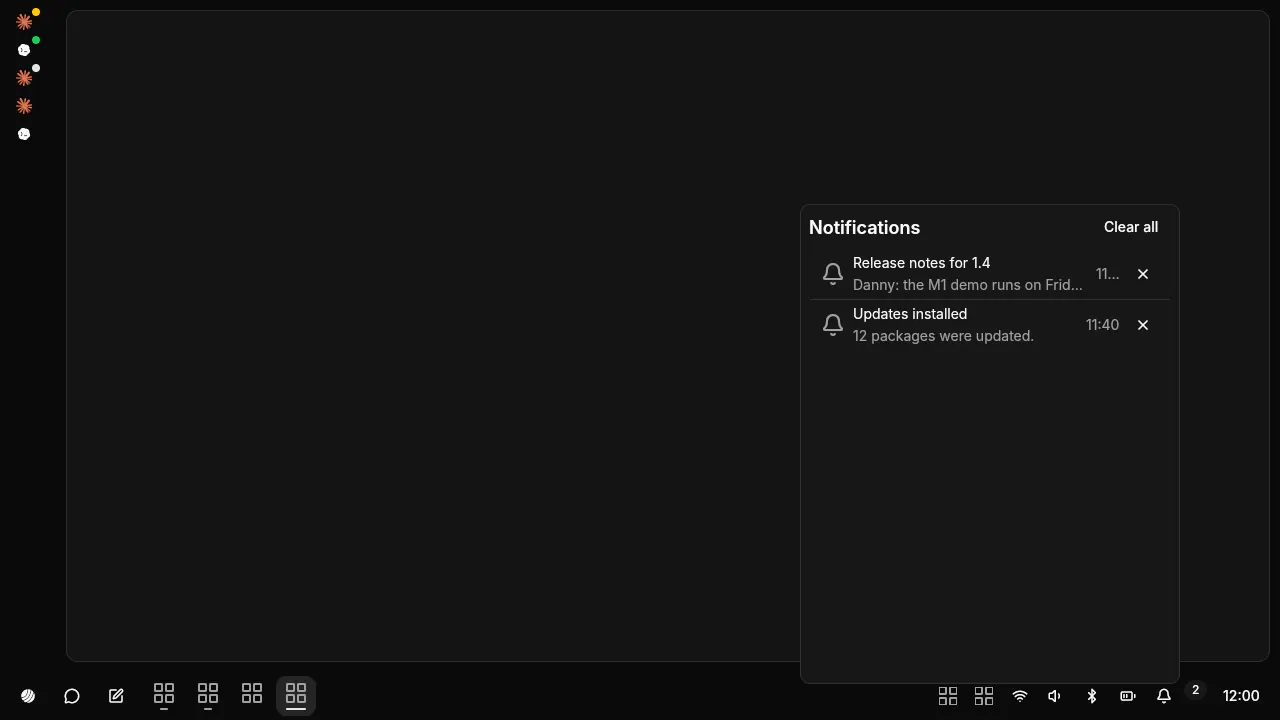
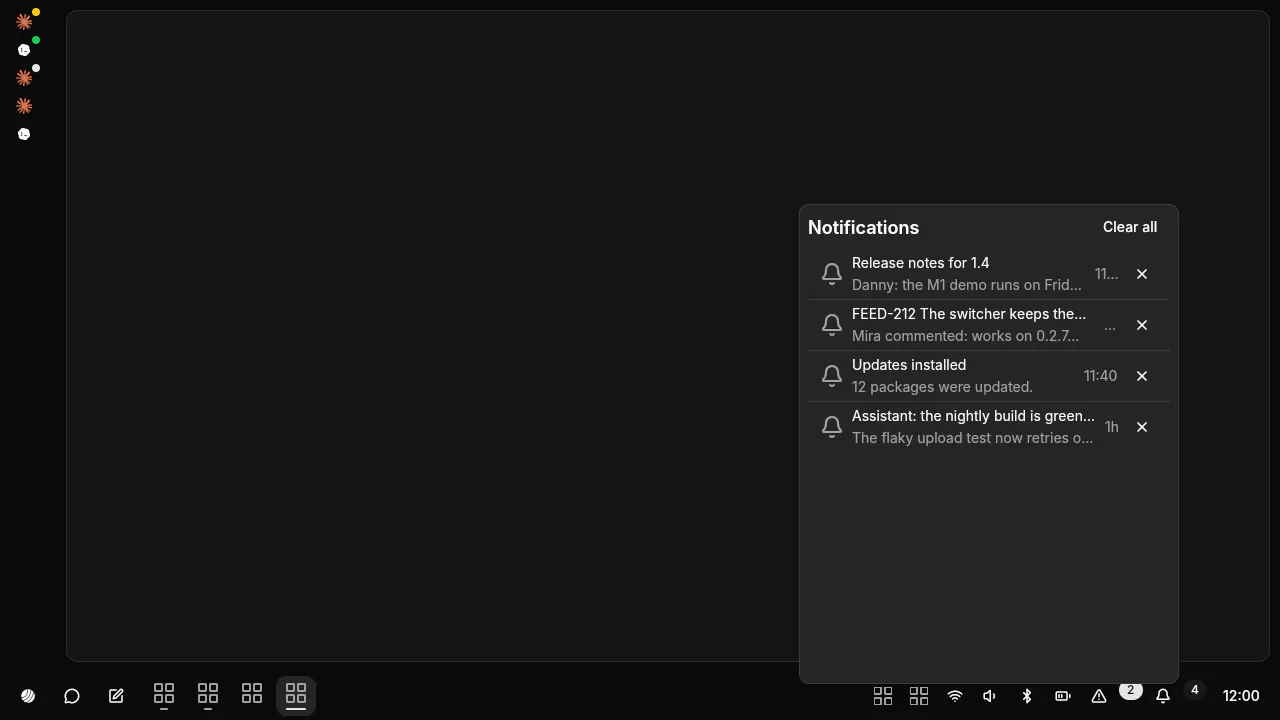
Release suite: @exp/ede reads A2UI 1.0's @call; the eDE notification goldens carry the tray's demo inbox again
#VAPP-289 moved packages/ede's fixtures to `functionCall["@call"]` but
documentIssues still read `call`, so a call outside the allowlist went
unreported (2 failing @exp/ede tests). It reads @call now, with `call` as
the 0.9 bridge.

ede-notifications and ede-notification-center: #2299's bulk recapture
dropped the demo inbox (EDE_SHELL_DEMO_TRAY) that #2294 added to these two
views; `bun run shots -- --platform ede` draws them with it, deterministically.

diff --git a/packages/ede/src/surface.ts b/packages/ede/src/surface.ts
@@ -250,8 +250,10 @@ export function documentIssues(document: unknown): Issue[] {
     }
     if (isRecord(node.on)) {
       for (const handler of Object.values(node.on)) {
-        if (isRecord(handler) && isRecord(handler.functionCall) && typeof handler.functionCall.call === `string` && !functions.includes(handler.functionCall.call)) {
-          issues.push({ path: `#${id}`, message: `function ${handler.functionCall.call} is not in surface.functions` })
+        // A2UI 1.0 names the function `@call` (#VAPP-289); `call` is the 0.9 bridge.
+        const call = isRecord(handler) && isRecord(handler.functionCall) ? (handler.functionCall[`@call`] ?? handler.functionCall.call) : undefined
+        if (typeof call === `string` && !functions.includes(call)) {
+          issues.push({ path: `#${id}`, message: `function ${call} is not in surface.functions` })
         }
       }
     }
